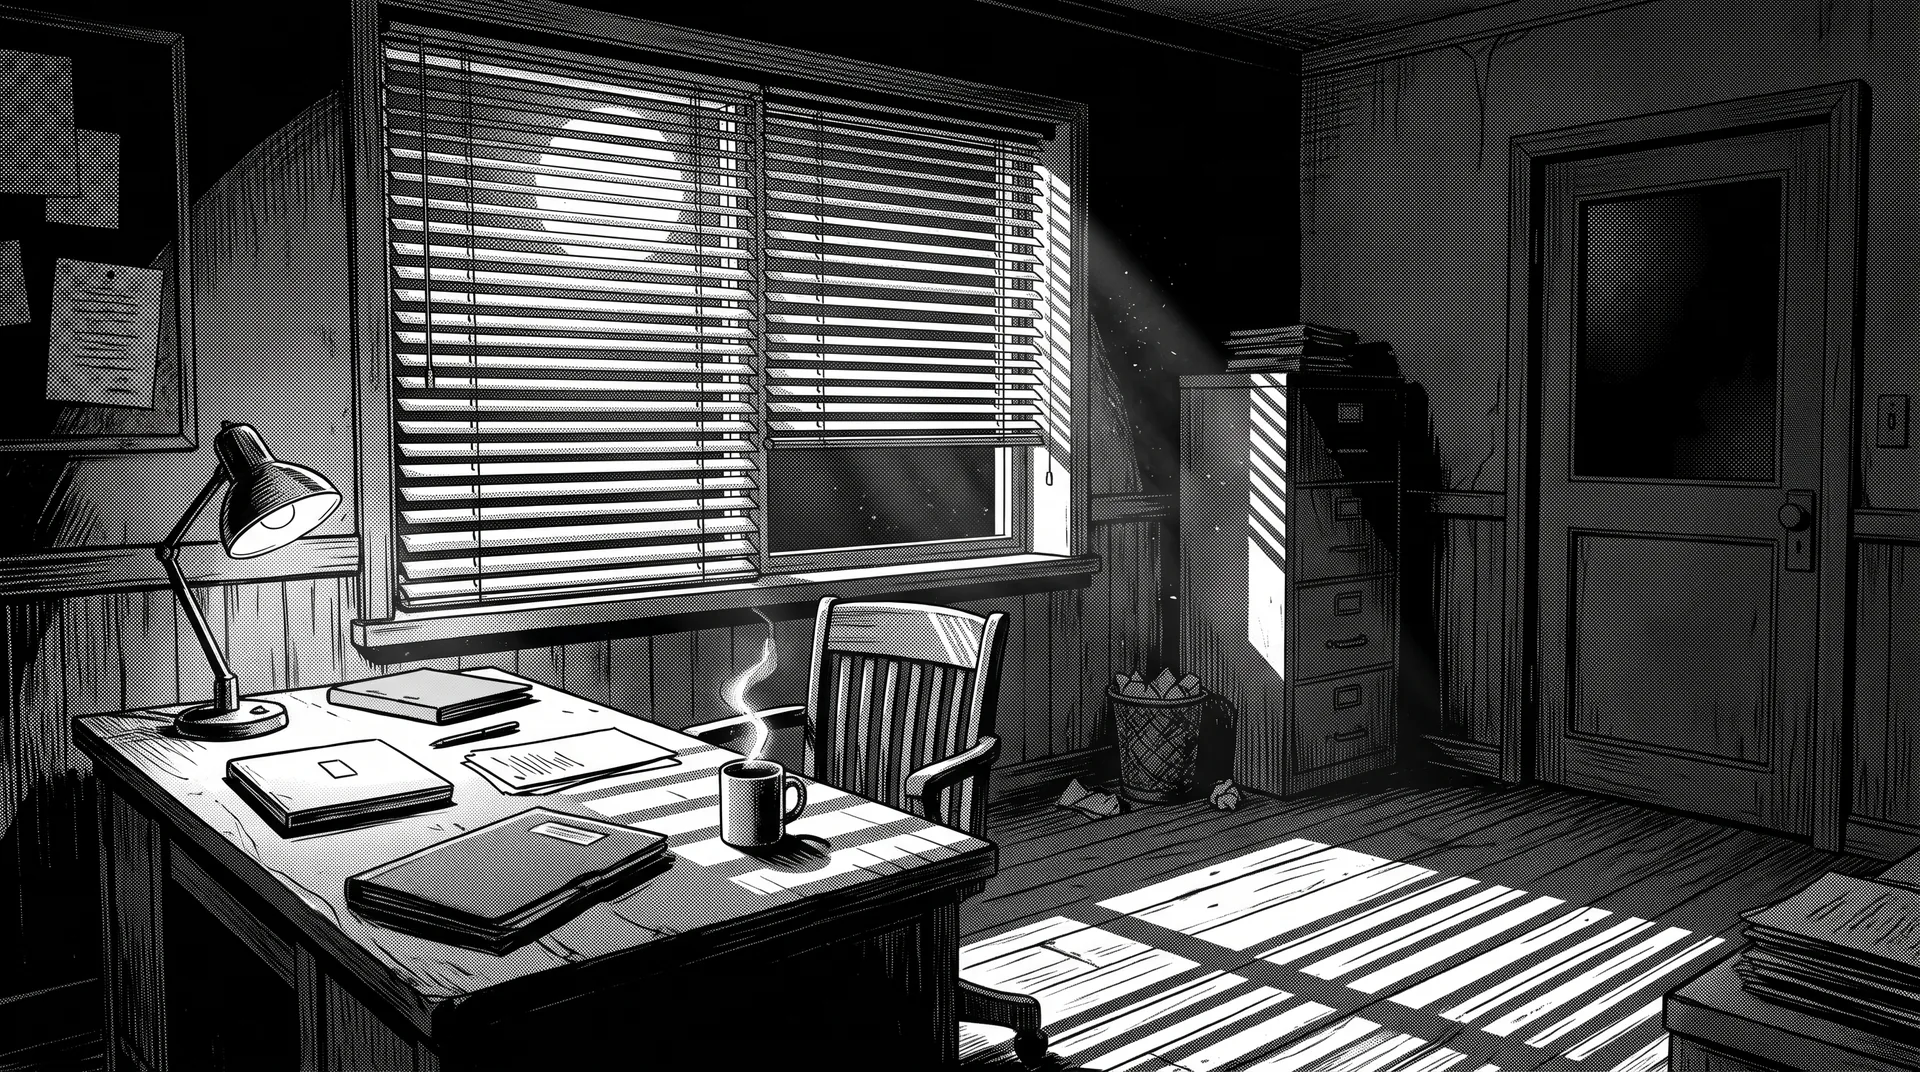
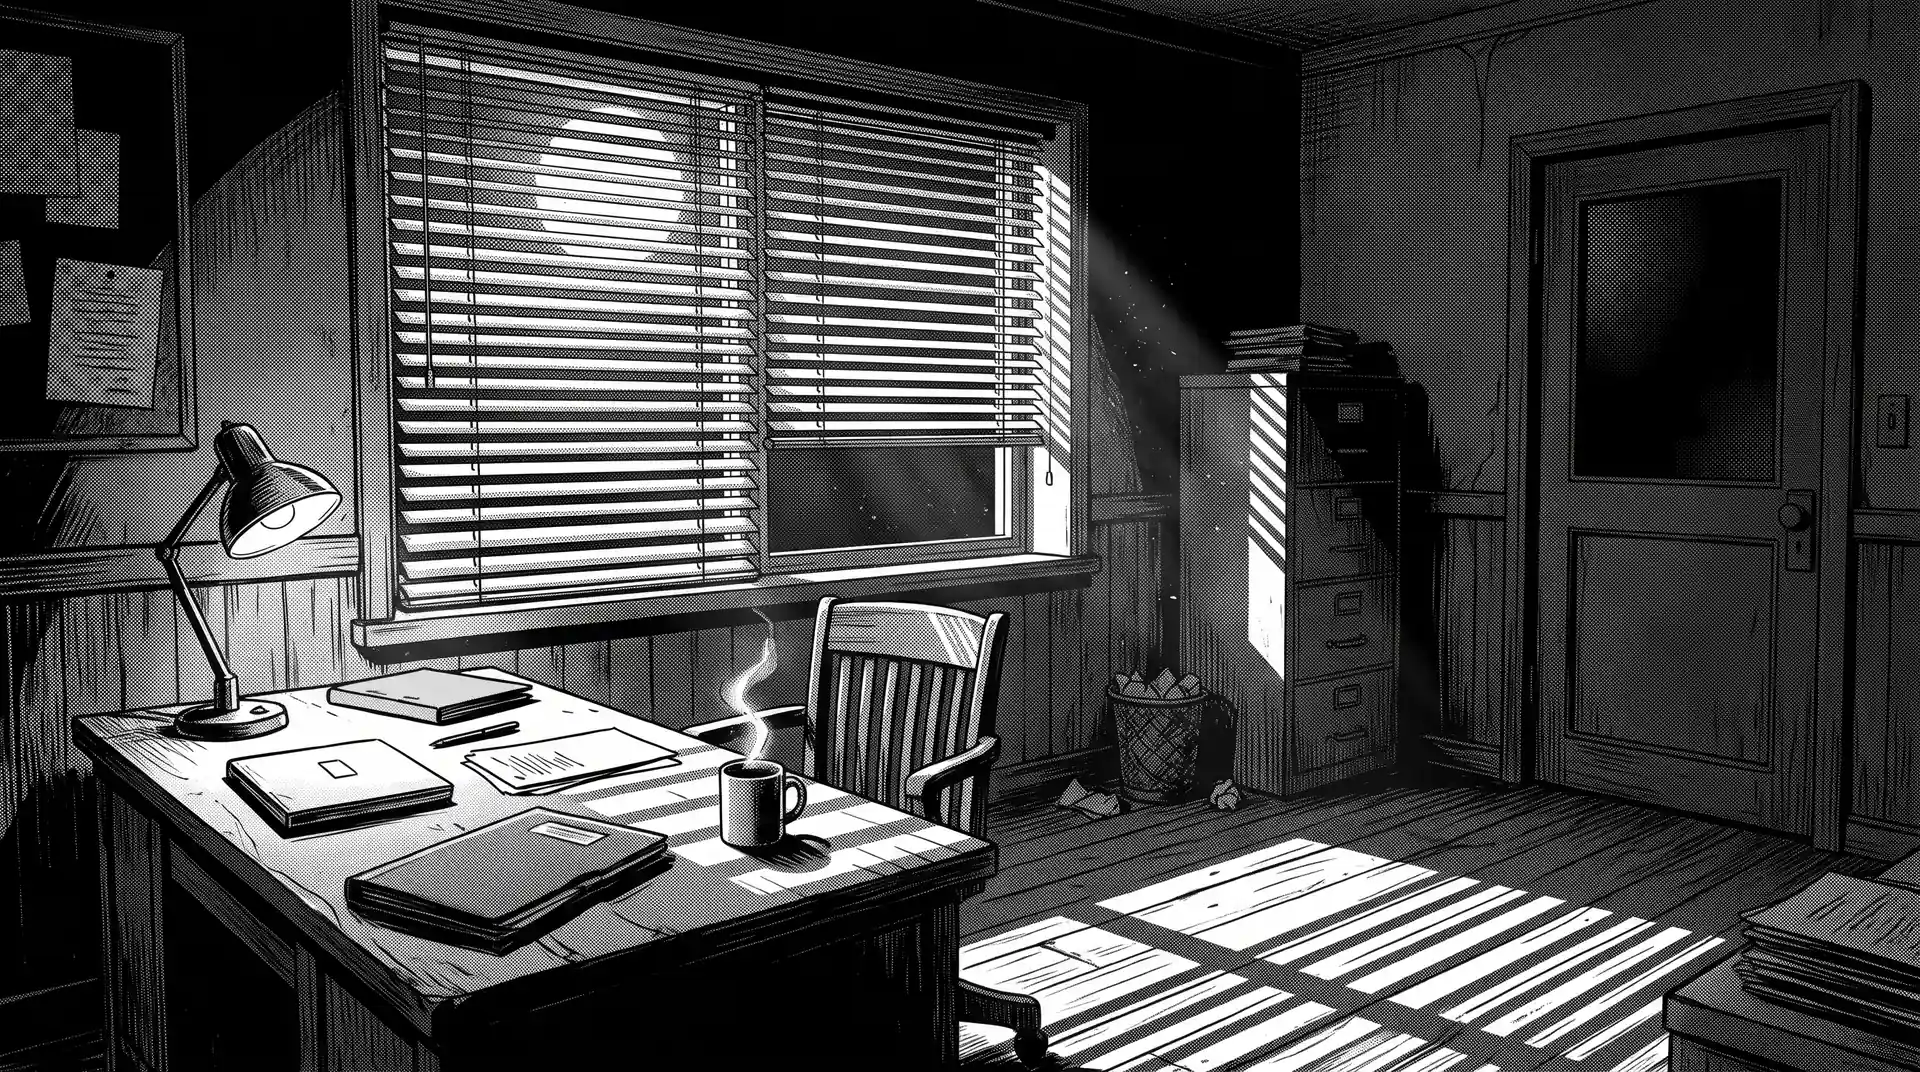
perf: fonte japonesa em subconjunto, fundo por celular e vídeo da Flora sob demanda
Reggae One de 883 KB vira 4,4 KB só com os caracteres de jp.ts; o celular baixa bg-960
em vez do bg-2752; fetchpriority no fundo e no quadro 1; back2.webm só perto da tela.
LCP mobile simulado de 17,7 s para 3,3 s.

diff --git a/src/scenes/Opening.tsx b/src/scenes/Opening.tsx
@@ -7,7 +7,7 @@ import { PROFILE } from '../content/profile.ts';
 import { Sfx } from '../ui/Sfx.tsx';
 import { RedLabel } from '../ui/RedLabel.tsx';
 import { Caption } from '../ui/Caption.tsx';
-import { FRAME_COUNT, frameForProgress, frameUrl, loadImage, nearestLoaded } from '../lib/frames.ts';
+import { BG_MOBILE, BG_MOBILE_QUERY, BG_SIZES, BG_SRC, BG_SRCSET, FRAME_COUNT, frameForProgress, frameUrl, loadImage, nearestLoaded } from '../lib/frames.ts';
 import { registerGsap, useReducedMotion } from '../lib/motion.ts';
 import { RainCanvas } from './opening/RainCanvas.tsx';
 import { DustCanvas } from './opening/DustCanvas.tsx';
@@ -41,7 +41,7 @@ export function Opening({ ready }: { ready: boolean }) {
     let stop = false;
     (async () => {
       for (let n = 2; n <= FRAME_COUNT && !stop; n++) {
-        try { await loadImage(frameUrl(n, mobile)); } catch { continue; }
+        try { await loadImage(frameUrl(n, mobile), { low: true }); } catch { continue; }
         loaded.current.add(n);
         show();
       }
@@ -87,13 +87,10 @@ export function Opening({ ready }: { ready: boolean }) {
   return (
     <section id="opening" ref={root} className={styles.opening}>
       <div ref={stage} className={styles.stage}>
-        <img
-          className={styles.bg}
-          src="/static/opening/bg-1920.webp"
-          srcSet="/static/opening/bg-1920.webp 1920w, /static/opening/bg-2752.webp 2752w"
-          sizes="(min-aspect-ratio: 2752/1536) 100vw, 180vh"
-          alt=""
-        />
+        <picture>
+          <source media={BG_MOBILE_QUERY} srcSet={BG_MOBILE} />
+          <img className={styles.bg} src={BG_SRC} srcSet={BG_SRCSET} sizes={BG_SIZES} fetchPriority="high" alt="" />
+        </picture>
         {!reduced && <RainCanvas className={styles.rain} />}
         <div className={styles.lamp} />
         {!reduced && <DustCanvas className={styles.dust} />}
@@ -110,6 +107,7 @@ export function Opening({ ready }: { ready: boolean }) {
           ref={jean}
           className={styles.jean}
           data-testid="jean-frame"
+          fetchPriority="high"
           src={frameUrl(reduced ? FRAME_COUNT : 1, mobile)}
           alt="Jean, the DIAS77 character, at his desk"
         />

diff --git a/src/scenes/FloraStudio.tsx b/src/scenes/FloraStudio.tsx
@@ -24,6 +24,20 @@ export function FloraStudio() {
   const reduced = useReducedMotion();
   const { messages, expression, pending, send } = useFloraChat();
   const log = useRef<HTMLDivElement>(null);
+  const video = useRef<HTMLVideoElement>(null);
+
+  // O vídeo de fundo (197 KB) só começa a baixar quando a seção está perto da tela.
+  useEffect(() => {
+    const v = video.current!;
+    const io = new IntersectionObserver(([entry]) => {
+      if (!entry.isIntersecting) return;
+      io.disconnect();
+      v.preload = 'auto';
+      if (reduced) v.load(); else void v.play().catch(() => {});
+    }, { rootMargin: '600px 0px' });
+    io.observe(v);
+    return () => io.disconnect();
+  }, [reduced]);
 
   useEffect(() => {
     log.current!.scrollTop = log.current!.scrollHeight;
@@ -42,7 +56,7 @@ export function FloraStudio() {
   return (
     <section id="flora" className={styles.studio} aria-labelledby="flora-title">
       <div className={styles.stage}>
-        <video className={styles.layer} src="/static/char/back2.webm" autoPlay={!reduced} loop muted playsInline aria-hidden="true" />
+        <video ref={video} className={styles.layer} src="/static/char/back2.webm" preload="none" loop muted playsInline aria-hidden="true" />
         <img className={styles.layer} src="/static/char/char_back3.webp" alt="" width={2752} height={1536} loading="lazy" />
         <div className={styles.flora}>
           {EXPRESSIONS.map((name) => {

diff --git a/src/lib/frames.ts b/src/lib/frames.ts
@@ -20,11 +20,20 @@ export function nearestLoaded(requested: number, loaded: ReadonlySet<number>): n
 export const frameUrl = (i: number, mobile: boolean) =>
   mobile ? `/static/frames2/m/Image${i}.webp` : `/static/frames2/Image${i}.webp`;
 
-export function loadImage(url: string): Promise<void> {
+// Fundo da abertura: a Loading e o <picture> usam as mesmas constantes para o navegador baixar um arquivo só.
+export const BG_MOBILE = '/static/opening/bg-960.webp';
+export const BG_MOBILE_QUERY = '(max-width: 767px)';
+export const BG_SRC = '/static/opening/bg-1920.webp';
+export const BG_SRCSET = '/static/opening/bg-1920.webp 1920w, /static/opening/bg-2752.webp 2752w';
+export const BG_SIZES = '(min-aspect-ratio: 2752/1536) 100vw, 180vh';
+
+export function loadImage(url: string, opts: { srcset?: string; sizes?: string; low?: boolean } = {}): Promise<void> {
   return new Promise((resolve, reject) => {
     const img = new Image();
     img.onload = () => resolve();
     img.onerror = reject;
+    if (opts.low) img.fetchPriority = 'low';
+    if (opts.srcset) { img.sizes = opts.sizes ?? ''; img.srcset = opts.srcset; }
     img.src = url;
   });
 }

diff --git a/src/scenes/Loading.tsx b/src/scenes/Loading.tsx
@@ -2,7 +2,7 @@ import { useEffect, useRef, useState } from 'react';
 import gsap from 'gsap';
 import { useGSAP } from '@gsap/react';
 import { Stamp } from '../ui/Stamp.tsx';
-import { frameUrl, loadImage } from '../lib/frames.ts';
+import { BG_MOBILE, BG_SIZES, BG_SRC, BG_SRCSET, frameUrl, loadImage } from '../lib/frames.ts';
 import { registerGsap, useReducedMotion } from '../lib/motion.ts';
 import styles from './Loading.module.css';
 
@@ -24,7 +24,7 @@ export function Loading({ onDone }: { onDone: () => void }) {
   useEffect(() => {
     const mobile = matchMedia('(max-width: 767px)').matches;
     const tasks = [
-      loadImage('/static/opening/bg-1920.webp'),
+      mobile ? loadImage(BG_MOBILE) : loadImage(BG_SRC, { srcset: BG_SRCSET, sizes: BG_SIZES }),
       loadImage(frameUrl(reduced ? 40 : 1, mobile)),
       document.fonts.load('700 1em Humane'),
     ];

diff --git a/src/styles/fonts.css b/src/styles/fonts.css
@@ -17,3 +17,11 @@
   font-display: swap;
   src: url('/fonts/CabinetGrotesk-Extrabold.woff2') format('woff2');
 }
+
+/* Subconjunto do Reggae One só com os caracteres de src/content/jp.ts (scripts/make-jp-font.py); OFL permite. */
+@font-face {
+  font-family: 'Reggae One';
+  font-weight: 400;
+  font-display: swap;
+  src: url('/fonts/ReggaeOne-JP.woff2') format('woff2');
+}

diff --git a/src/main.tsx b/src/main.tsx
@@ -1,7 +1,5 @@
 import { StrictMode } from 'react';
 import { createRoot } from 'react-dom/client';
-import '@fontsource/reggae-one/latin-400.css';
-import '@fontsource/reggae-one/japanese-400.css';
 import '@fontsource/special-elite/latin-400.css';
 import '@fontsource/familjen-grotesk/latin-400.css';
 import '@fontsource/familjen-grotesk/latin-600.css';

diff --git a/src/scenes/Opening.module.css b/src/scenes/Opening.module.css
@@ -18,6 +18,7 @@
   aspect-ratio: 2752 / 1536;
   margin: calc(var(--w) / var(--bg-ratio) / -2) 0 0 calc(var(--w) / -2);
 }
+.stage picture { display: contents; }
 .bg { display: block; width: 100%; height: 100%; }
 
 .rain, .dust { position: absolute; mix-blend-mode: screen; pointer-events: none; }

diff --git a/scripts/make-jp-font.py b/scripts/make-jp-font.py
@@ -1,0 +1,30 @@
+"""Gera public/fonts/ReggaeOne-JP.woff2 só com os caracteres de src/content/jp.ts.
+
+Uso: python3 -I scripts/make-jp-font.py  (fonttools e brotli num venv; a fonte de origem é o devDependency @fontsource/reggae-one, que não vai para o bundle)
+Depois de mexer em jp.ts, rode de novo e faça commit do .woff2. A OFL do Reggae One permite o subconjunto
+e não declara nome reservado, por isso a família continua 'Reggae One'.
+"""
+import re
+from pathlib import Path
+
+from fontTools import subset
+
+ROOT = Path(__file__).resolve().parent.parent
+SRC = ROOT / 'node_modules/@fontsource/reggae-one/files/reggae-one-japanese-400-normal.woff2'
+OUT = ROOT / 'public/fonts/ReggaeOne-JP.woff2'
+
+text = ''.join(re.findall(r"text: '([^']*)'", (ROOT / 'src/content/jp.ts').read_text(encoding='utf8')))
+chars = ''.join(sorted(set(text + '・…0123456789')))
+
+opts = subset.Options()
+opts.flavor = 'woff2'
+opts.layout_features = ['*']
+opts.notdef_outline = True
+font = subset.load_font(str(SRC), opts)
+sub = subset.Subsetter(opts)
+sub.populate(text=chars)
+sub.subset(font)
+missing = [c for c in chars if ord(c) not in font.getBestCmap()]
+assert not missing, f'sem glifo na fonte de origem: {missing}'
+subset.save_font(font, str(OUT), opts)
+print(f'{OUT.name}: {OUT.stat().st_size} bytes, {len(chars)} caracteres: {chars}')

diff --git a/scripts/make-images.py b/scripts/make-images.py
@@ -21,8 +21,9 @@ def resize_width(img, width):
 def background():
     OPENING.mkdir(exist_ok=True)
     bg = Image.open(BG).convert('RGB')
-    for width in (1920, 2752):
-        resize_width(bg, width).save(OPENING / f'bg-{width}.webp', quality=82, method=6)
+    # 960 é o do celular (<picture> na abertura); a cena é noturna e escura, então qualidade menor não aparece.
+    for width, quality in ((960, 70), (1920, 25), (2752, 70)):
+        resize_width(bg, width).save(OPENING / f'bg-{width}.webp', quality=quality, method=6)
 
 
 def mobile_frames():

diff --git a/design/CREDITS.md b/design/CREDITS.md
@@ -6,11 +6,11 @@
 |---|---|---|---|
 | Humane (Bold, SemiBold) | Rajesh Rajput | Freeware, uso comercial liberado; os arquivos não podem ser modificados (usados sem alteração) | https://rajeshrajput.gumroad.com (pacote "HUMANE Typeface") |
 | Cabinet Grotesk (Extrabold 800) | Indian Type Foundry | Fontshare Free Font License (FFL); conversão e subconjunto contam como obra derivada, por isso o `.woff2` oficial é usado sem alteração | https://www.fontshare.com/fonts/cabinet-grotesk |
-| Reggae One | Fontworks Inc. | SIL OFL 1.1 | https://fonts.google.com/specimen/Reggae+One (pacote `@fontsource/reggae-one`) |
+| Reggae One | Fontworks Inc. | SIL OFL 1.1 (sem nome reservado) | https://fonts.google.com/specimen/Reggae+One; `public/fonts/ReggaeOne-JP.woff2` é um subconjunto só com os caracteres de `src/content/jp.ts`, gerado por `scripts/make-jp-font.py` |
 | Special Elite | Astigmatic | Apache 2.0 | https://fonts.google.com/specimen/Special+Elite (pacote `@fontsource/special-elite`) |
 | Familjen Grotesk | Familjen | SIL OFL 1.1 | https://fonts.google.com/specimen/Familjen+Grotesk (pacote `@fontsource/familjen-grotesk`) |
 
-Os arquivos de Humane e Cabinet Grotesk ficam em `public/fonts/`; as demais vêm do pacote `@fontsource/*` e o Vite as serve do próprio site.
+Os arquivos de Humane, Cabinet Grotesk e o subconjunto do Reggae One ficam em `public/fonts/`; as demais vêm do pacote `@fontsource/*` e o Vite as serve do próprio site.
 
 ## Imagens
 

diff --git a/README.md b/README.md
@@ -21,3 +21,7 @@ pnpm check      # typecheck + testes unitários/auditoria + e2e
 Scripts: `dev`, `build`, `typecheck`, `test`, `test:e2e`, `check`, `cf:dev`, `deploy`. O e2e sobe o `cf:dev`; contra outra porta ou site publicado: `PLAYWRIGHT_BASE_URL=http://localhost:8779 pnpm test:e2e`.
 
 O visual é decidido em `DESIGN.md`. Créditos de fontes e imagens em `design/CREDITS.md`. Mais detalhes em `CLAUDE.md`.
+
+## Fonte japonesa
+
+`public/fonts/ReggaeOne-JP.woff2` é um subconjunto com só os caracteres de `src/content/jp.ts`. Adicionou palavra lá? Rode `python3 -I scripts/make-jp-font.py` (precisa de `fonttools` e `brotli` num venv) e faça commit do `.woff2`.
